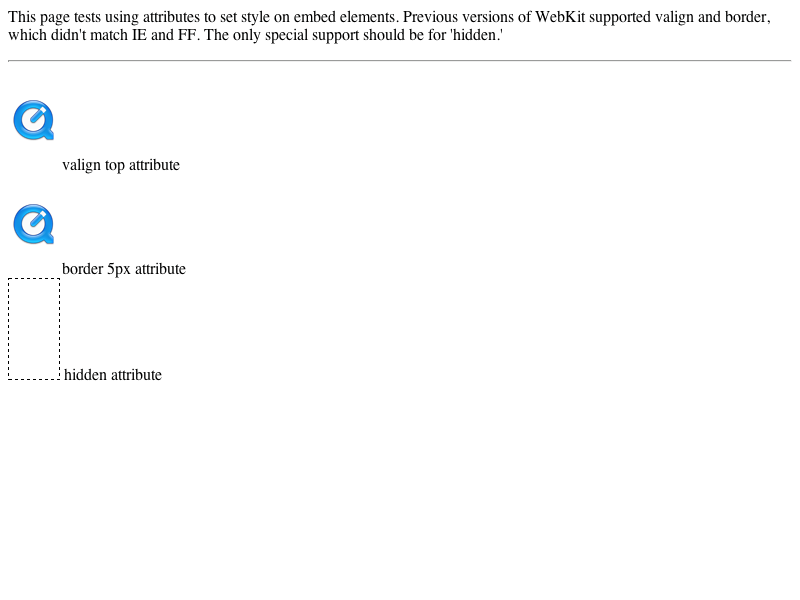
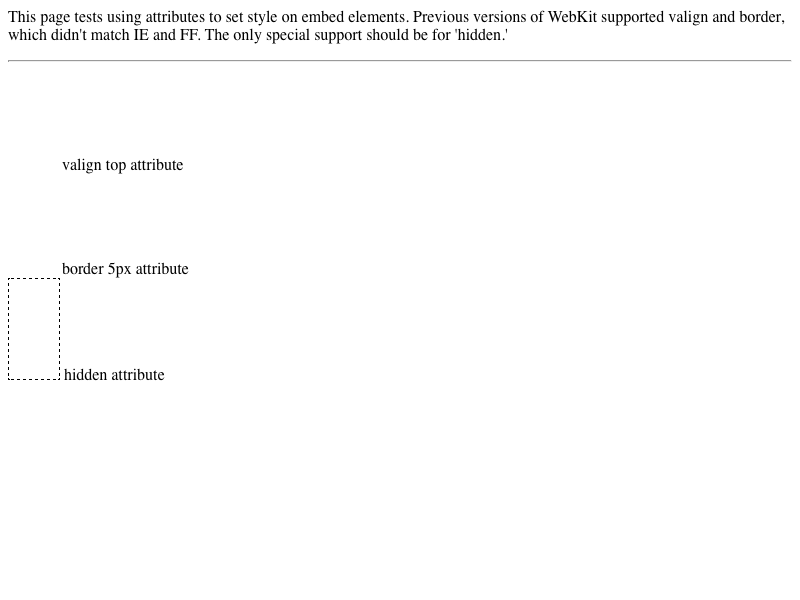
Update plugins/embed-attributes-style.html to not use the QuickTime plug-in https://bugs.webkit.org/show_bug.cgi?id=145891
Reviewed by Anders Carlsson.

* platform/mac/plugins/embed-attributes-style-expected.png:
* plugins/embed-attributes-style.html:

git-svn-id: https://svn.webkit.org/repository/webkit/trunk@185469 268f45cc-cd09-0410-ab3c-d52691b4dbfc

diff --git a/LayoutTests/plugins/embed-attributes-style.html b/LayoutTests/plugins/embed-attributes-style.html
@@ -16,16 +16,16 @@ embed {
 <div id='console'></div>
 
 <div>
-    <embed type="video/quicktime" valign="top"></embed>
+    <embed type="application/x-webkit-test-netscape" valign="top"></embed>
     valign top attribute
 </div>
 <div>
-    <embed type="video/quicktime" border="5px solid black"></embed>
+    <embed type="application/x-webkit-test-netscape" border="5px solid black"></embed>
     border 5px attribute
 </div>
 
 <div>
-    <embed hidden="yes" style="border: 1px dashed black" type="video/quicktime"></embed>
+    <embed hidden="yes" style="border: 1px dashed black" type="application/x-webkit-test-netscape"></embed>
     hidden attribute
 </div>
 
